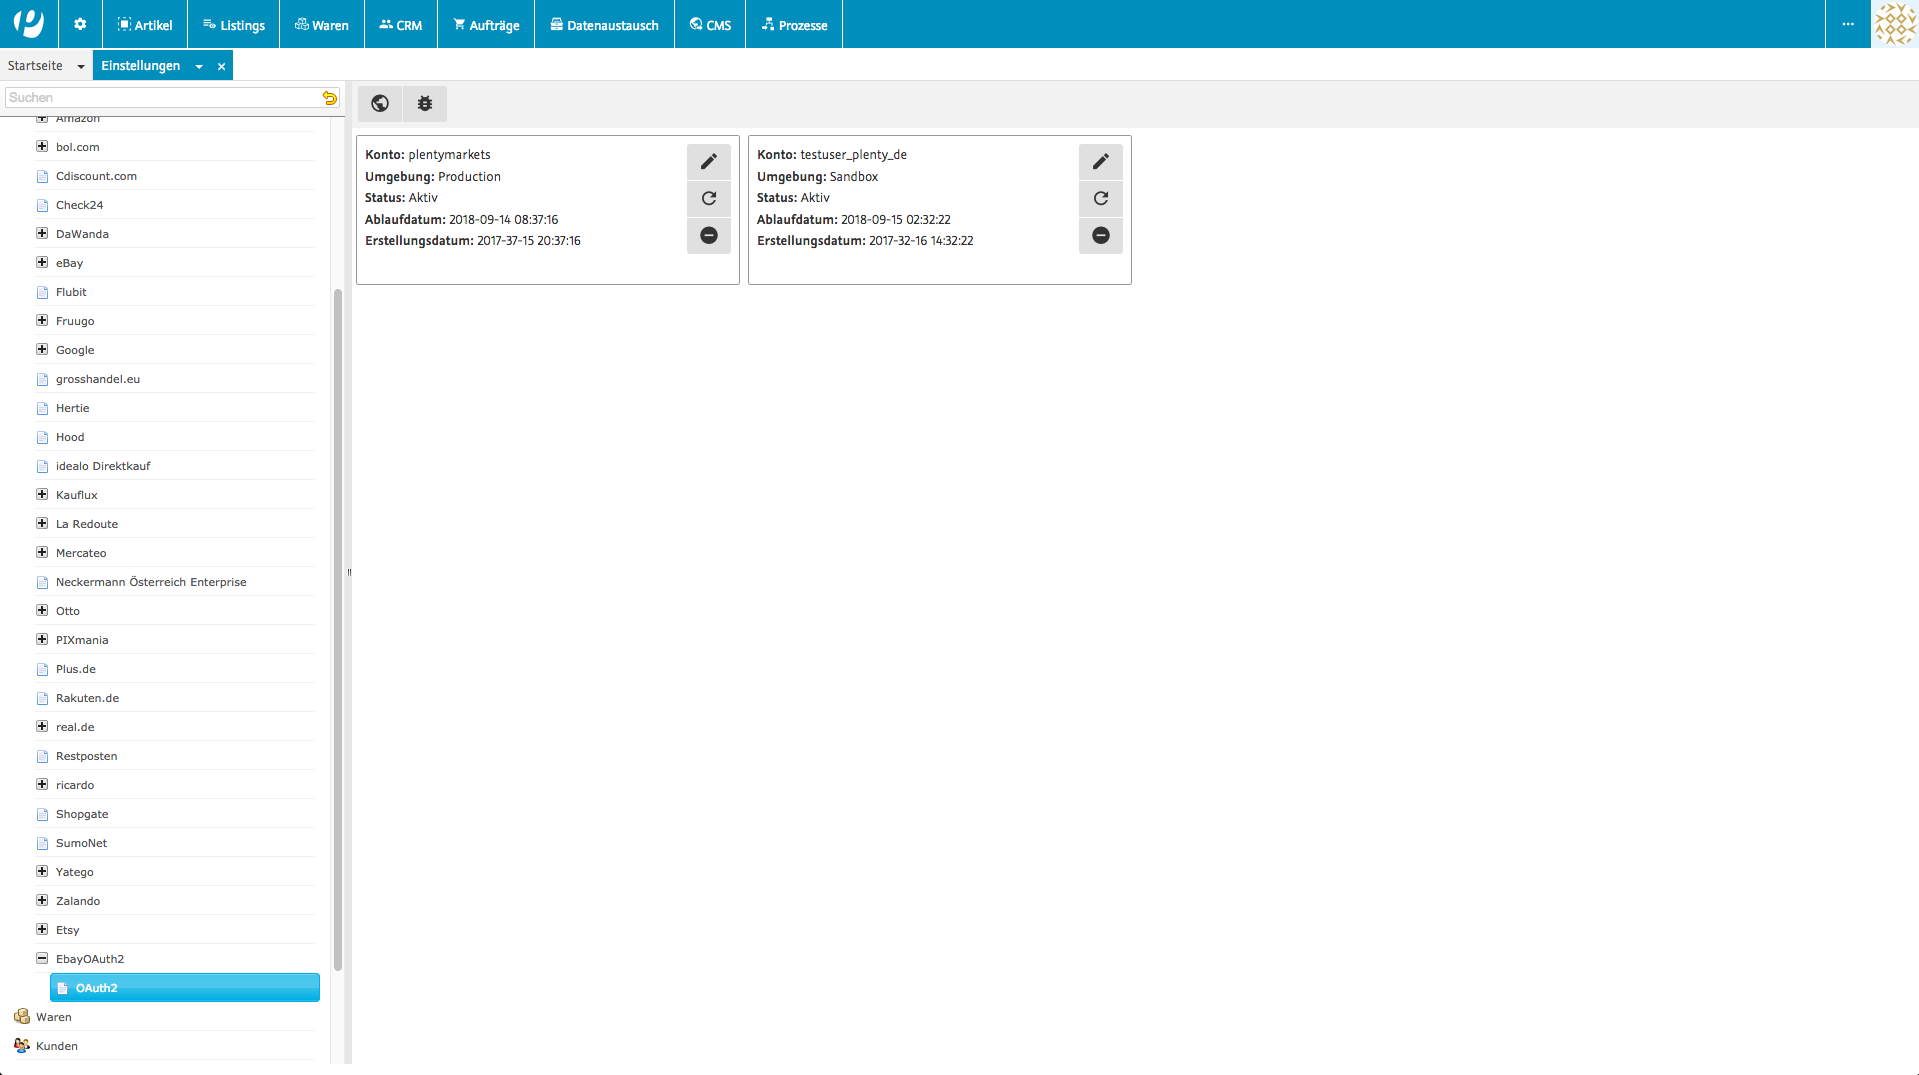
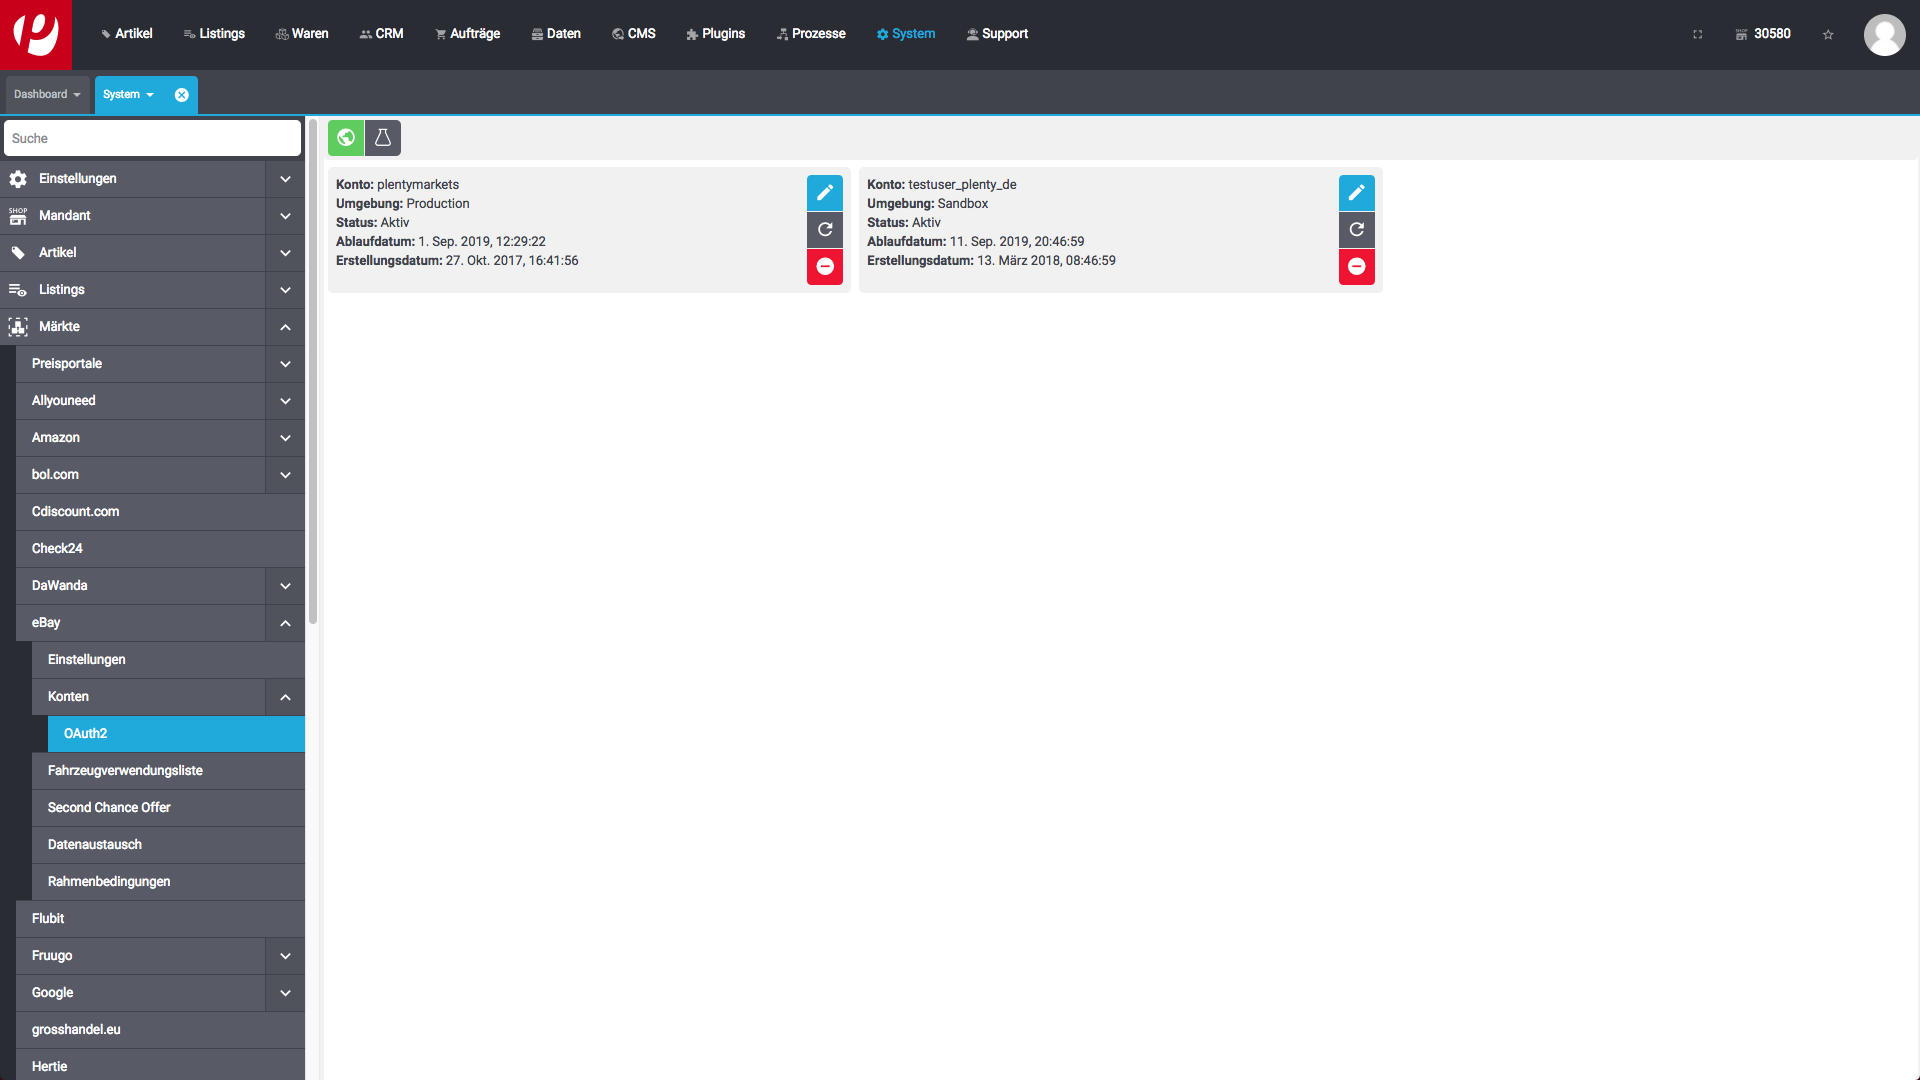
edited description and changed images

Changed region(s): [[0.0, 0.0, 1.0, 1.0], [0.6764, 0.1535, 0.7379, 0.2763]]

diff --git a/meta/documents/user_guide_de.md b/meta/documents/user_guide_de.md
@@ -4,13 +4,13 @@
 
 ## Konten freischalten und bearbeiten
 
-Im Menü **Einstellungen » Märkte » OAuth2** schalten Sie neue Konten für eBay frei. Dafür benötigen Sie die Zugangsdaten bestehend aus Nutzername und Passwort. Wenn Sie Ihre eBay-Zugangsdaten ändern, müssen Sie das Konto aktualisieren und synchronisieren. Sie können mit plentymarkets mehrere eBay-Konten verwalten. Um ein oder mehrere Konten hinzuzufügen, gehen Sie folgendermaßen vor.
+Im Menü **System » Märkte » eBay » Konten » OAuth2** schalten Sie neue Konten für eBay frei. Dafür benötigen Sie die Zugangsdaten bestehend aus Nutzername und Passwort. Wenn Sie Ihre eBay-Zugangsdaten ändern, müssen Sie das Konto aktualisieren und synchronisieren. Sie können mit plentymarkets mehrere eBay-Konten verwalten. Um ein oder mehrere Konten hinzuzufügen, gehen Sie folgendermaßen vor:
 
 ##### Neues Konto freischalten:
 
- 1. Öffnen Sie das Menü **Einstellungen » Märkte » OAuth2**.
- 2. Wählen Sie **Production-Konto hinzufügen** für die Umgebung, wenn das neue Konto kein Testumgebungskonto sein soll.
- → Sie werden zu eBay weitergeleitet und müssen dort Ihre Daten authentifizieren.
+ 1. Öffnen Sie das Menü **System » Märkte » eBay » Konten » OAuth2**.
+ 2. Wählen Sie **Production-Konto hinzufügen** für die Umgebung, wenn das neue Konto kein Testumgebungskonto sein soll. <br>
+ → Sie werden zu eBay weitergeleitet und müssen dort Ihre Daten authentifizieren. <br>
  → Das Konto wird im Menü **OAuth2** angezeigt.
  
  Um ein Testumgebungskonto freizuschalten, wählen Sie **Sanbox-Koto hinzufügen**.
@@ -19,7 +19,7 @@ Bei der Freischaltung oder Aktualisierung eines Kontos wird ein Token erzeugt, d
 
 
 
-Im Menü **Einstellungen » Märkte » eBay » OAuth2** haben Sie die Möglichkeit Konten umzubenennen, zu aktualiesieren oder zu löschen. Sie müssen z.B. das Konto in plentymarkets umbenennen, wenn Sie bei eBay Ihren Mitgliedsnamen geändert haben.    
+Im Menü **Einstellungen » Märkte » eBay » OAuth2** haben Sie die Möglichkeit Konten umzubenennen, zu aktualisieren oder zu löschen. Sie müssen z.B. das Konto in plentymarkets umbenennen, wenn Sie bei eBay Ihren Mitgliedsnamen geändert haben.    
 
 ## Lizenz
 

diff --git a/meta/documents/user_guide_en.md b/meta/documents/user_guide_en.md
@@ -4,18 +4,17 @@
 
 ## Activating and changing accounts
 
-Go to **Settings » Markets » eBay » OAuth2** to activate new accounts for eBay. You need your access data consisting of the user name and password. When changing your eBay access data, you have to update and synchronise your account in plentymarkets. plentymarkets allows you to manage several eBay accounts. Proceed as follows to add one or more accounts.
+Go to **System » Markets » eBay » Accounts »OAuth2** to activate new accounts for eBay. You need your access data consisting of the user name and password. When changing your eBay access data, you have to update and synchronise your account in plentymarkets. plentymarkets allows you to manage several eBay accounts. Proceed as follows to add one or more accounts.
 
 ##### Activating a new account:
 
- 1. Go to **Settings » Markets » eBay » OAuth2**.
- 2. Select **Add Production account** for the environment if the account should not be a test account.
-
- →  You will be forwarded to eBay and will have to authenticate your data.
+ 1. Go to **System » Markets » eBay » Accounts »OAuth2**.
+ 2. Select **Add Production account** for the environment if the account should not be a test account. <br>
+ →  You will be forwarded to eBay and will have to authenticate your data. <br>
  → The account will be displayed in the **OAuth2** menu.
     
 When activating or updating an account, a token with a validity of 18 months will be generated. There will be no automatic warning at the end of the period of validity. The token will also become invalid when the eBay account data is changed.
-Go to Settings » Markets » eBay » Accounts to rename or delete accounts. You have to rename your account in plentymarkets, for example, when changing your eBay user name.
+Go to **System » Markets » eBay » Accounts »OAuth2** to rename or delete accounts. You have to rename your account in plentymarkets, for example, when changing your eBay user name.
 
 ## License
 
